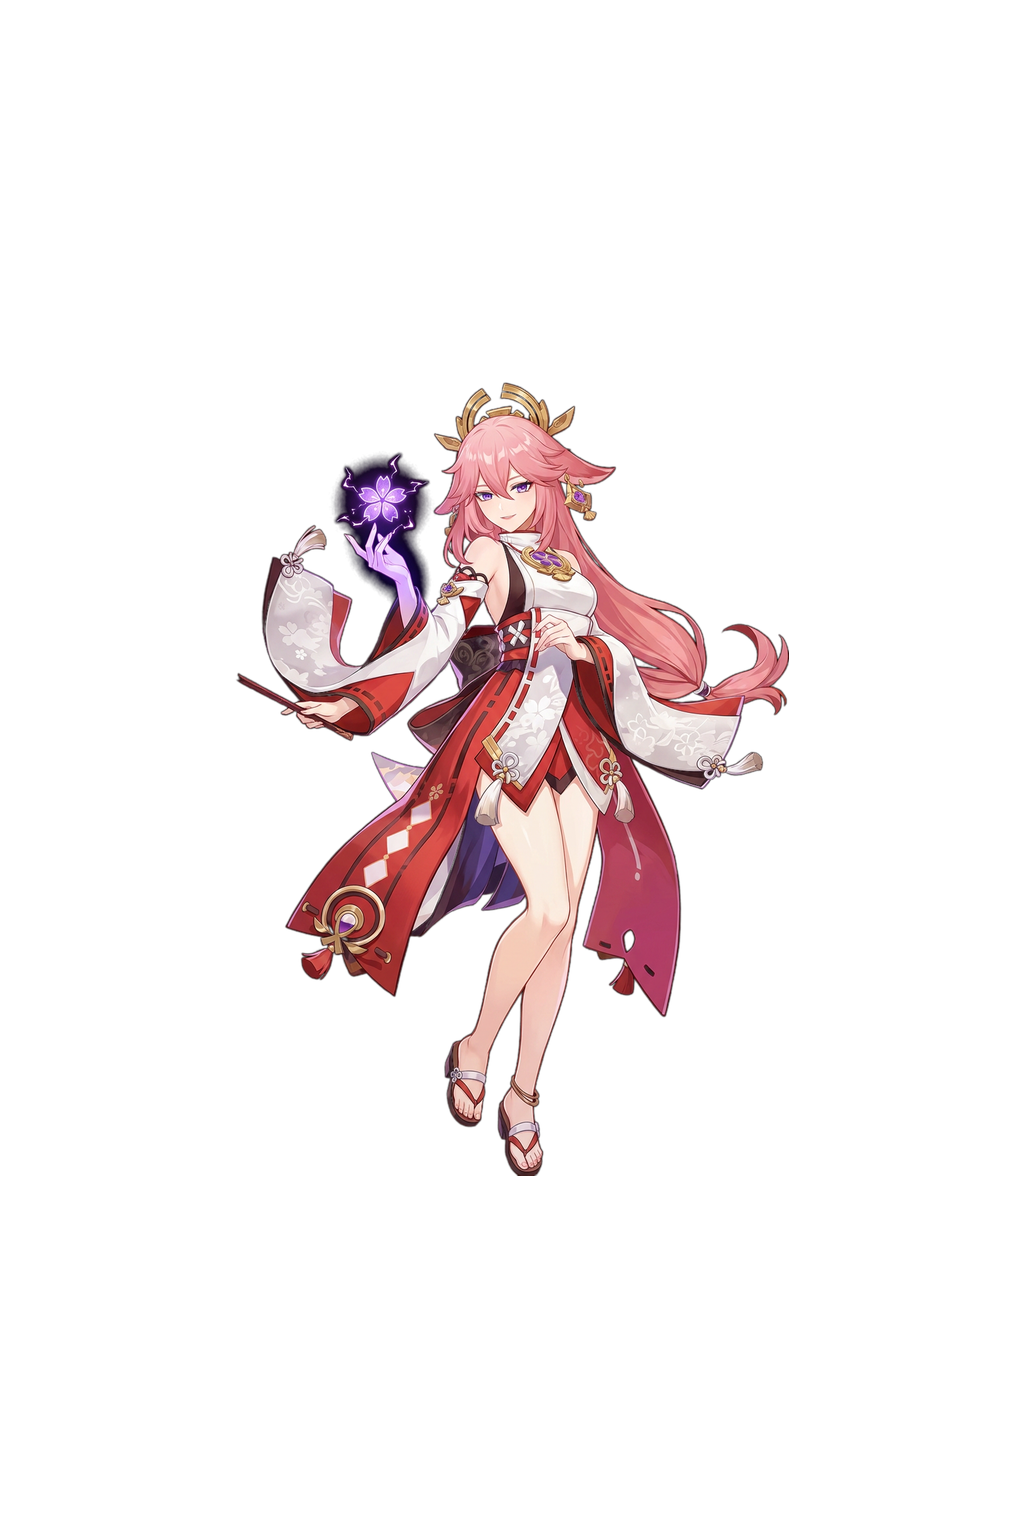
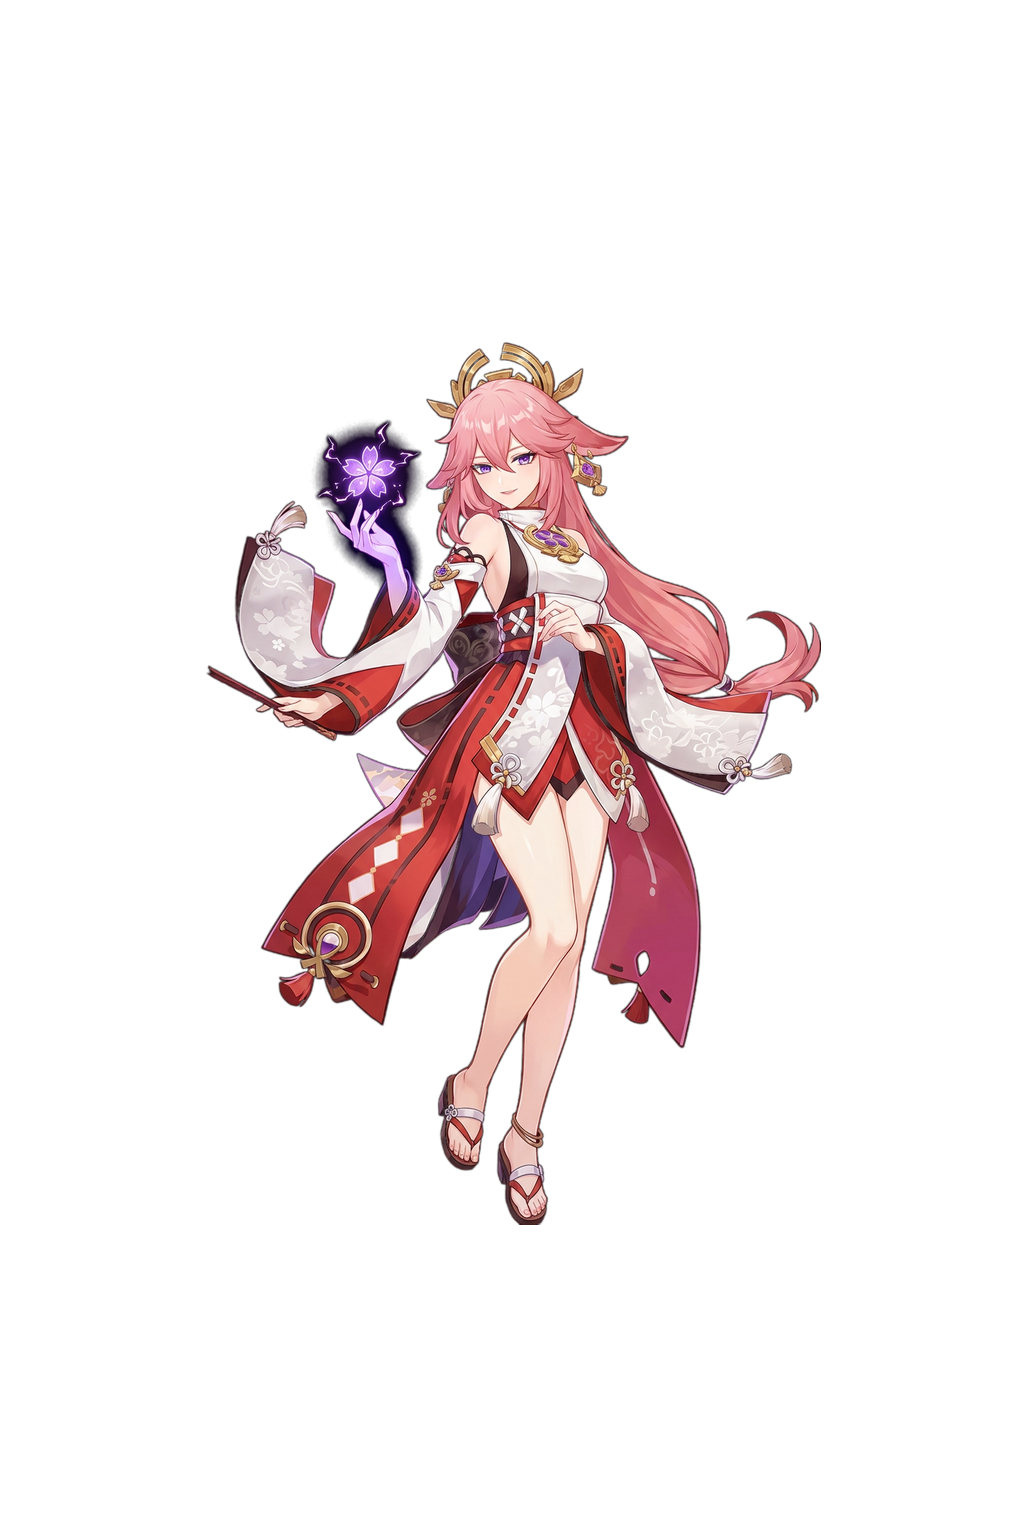
🃏 No.001 人物放大：破框构图 + 文字区压缩

Changed region(s): [[0.2188, 0.2188, 0.8125, 0.8125]]

diff --git a/cards/yae-miko/tools/make_layers.py b/cards/yae-miko/tools/make_layers.py
@@ -69,8 +69,9 @@ def make_subject(work: Path, assets: Path) -> None:
             min(cut.width, bbox[2] + pad), min(cut.height, bbox[3] + pad))
     fig = cut.crop(bbox)
     # Box accounts for the in-shader 1.25x subject zoom about canvas center:
-    # pre 376..1176  ->  post ~278..1278, clear of both type zones.
-    box_w, box_h, cx, cy = 860, 800, 512, 776
+    # pre 335..1225  ->  post ~227..1339, crown breaks the top rule,
+    # feet graze the tagline zone (type stays on top, TCG style).
+    box_w, box_h, cx, cy = 940, 890, 512, 780
     s = min(box_w / fig.width, box_h / fig.height)
     fig = fig.resize((round(fig.width * s), round(fig.height * s)), Image.LANCZOS)
     canvas = Image.new("RGBA", (W, H), (0, 0, 0, 0))
@@ -130,12 +131,12 @@ def make_text(root: Path, assets: Path) -> None:
     txt(72, 48, cfg.get("subtitle", ""), 26, fill=gold)
     txt(72, 86, cfg.get("title", ""), 92, max_width=880)
     txt(76, 196, cfg.get("collection", ""), 22, fill=gold)
-    line(246)
-    line(1278)
-    txt(512, 1298, cfg.get("tagline", ""), 30, anchor="ma", fill=gold)
-    txt(512, 1344, cfg.get("technique", ""), 62, anchor="ma")
-    txt(72, 1466, cfg.get("edition", ""), 21, fill=gold)
-    txt(952, 1466, "SCZ HOLO", 19, anchor="ra", fill=dim, max_width=360)
+    line(232)
+    line(1292)
+    txt(512, 1312, cfg.get("tagline", ""), 30, anchor="ma", fill=gold)
+    txt(512, 1358, cfg.get("technique", ""), 62, anchor="ma")
+    txt(72, 1480, cfg.get("edition", ""), 21, fill=gold)
+    txt(952, 1480, "SCZ HOLO", 19, anchor="ra", fill=dim, max_width=360)
     im.save(assets / "text.png")
     print("text.png", im.size)
 
